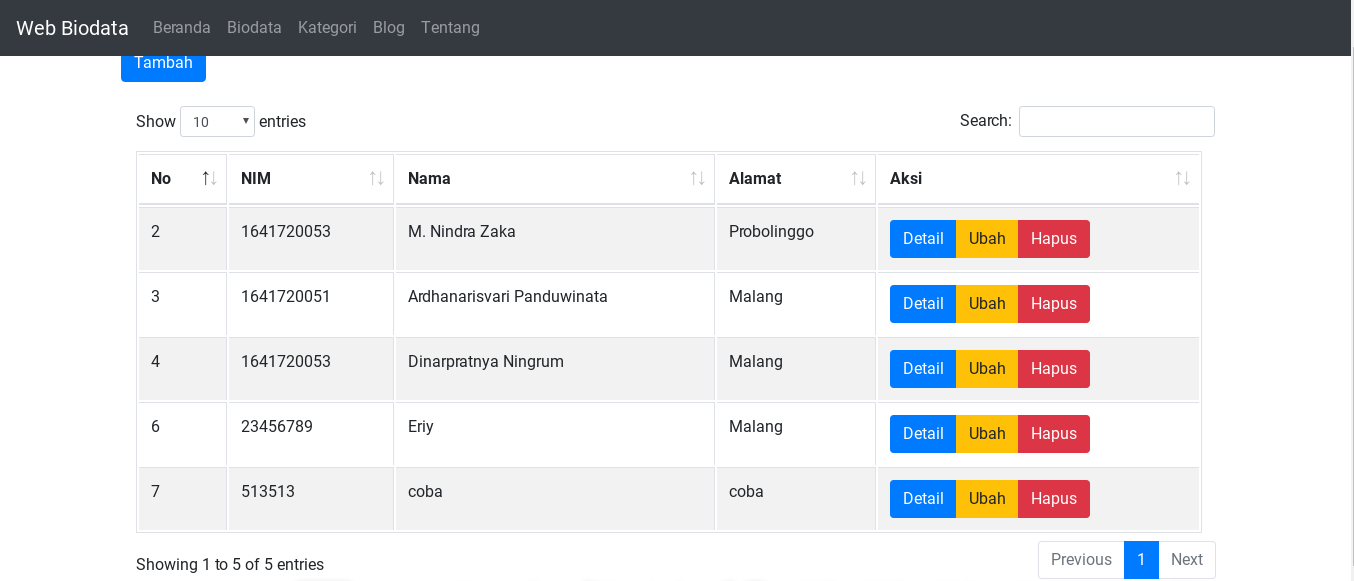
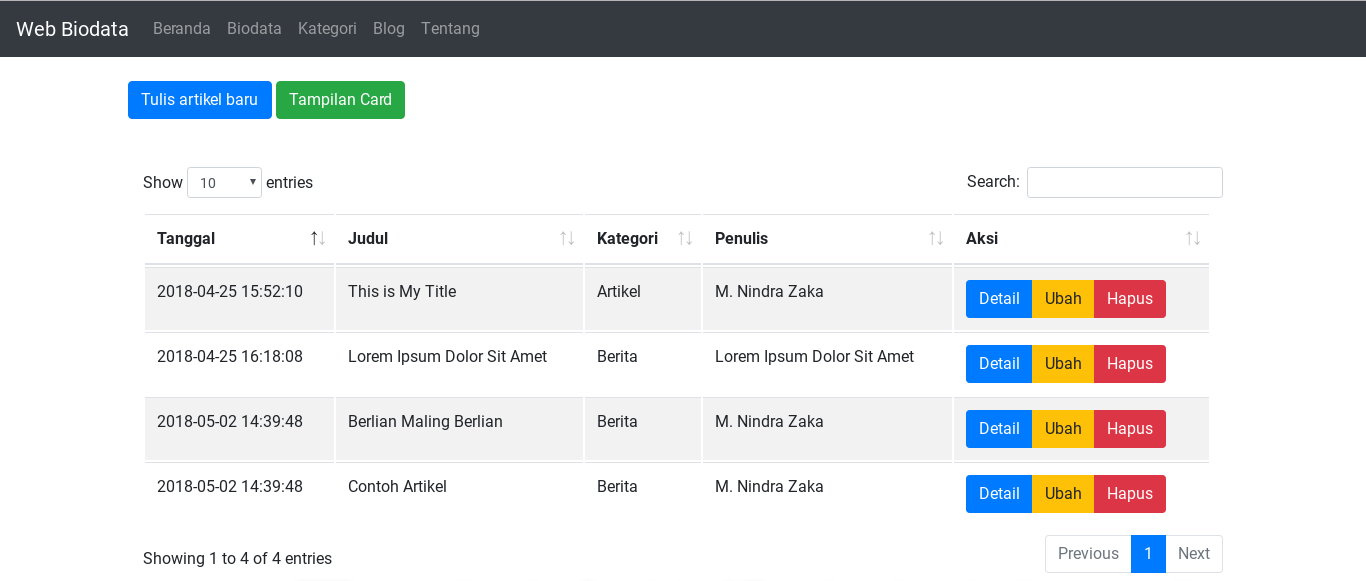
menerapkan datatables ke halaman blog

diff --git a/application/views/blog/indexTable.blade.php b/application/views/blog/indexTable.blade.php
@@ -1,0 +1,49 @@
+@extends('template')
+
+@section('content')
+    <div class="mb-5">
+        <a class="btn btn-primary" href="{{ base_url('blog/create') }}">Tulis artikel baru</a>
+        <a class="btn btn-success" href="{{ base_url('blog') }}">Tampilan Card</a>
+    </div>
+
+    <table class="table table-hover table-striped" id="myTable">
+        <thead class="thead-inverse|thead-default">
+        <tr>
+            <th>Tanggal</th>
+            <th>Judul</th>
+            <th>Kategori</th>
+            <th>Penulis</th>
+            <th>Aksi</th>
+        </tr>
+        </thead>
+    </table>
+@endsection
+
+@section('script')
+    <script>
+        $(document).ready(function() {
+            $('#myTable').dataTable( {
+                "columns": [
+                    { "data": "tanggal" },
+                    { "data": "judul" },
+                    { "data": "kategori.nama" },
+                    { "data": "penulis" },
+                    {
+                        "data": null,
+                        "render": function (data) {
+                            return `
+                            <div class="btn-group">
+                                <a type="a" href="{{ base_url('blog/show/') }}${data.id}" class="btn btn-primary">Detail</a>
+                                <a type="a" href="{{ base_url('blog/edit/') }}${data.id}" class="btn btn-warning">Ubah</a>
+                                <a type="a" href="{{ base_url('blog/delete/')}}${data.id}" class="btn btn-danger">Hapus</a>
+                            </div>`
+                        }
+                    }
+                ],
+                "ajax": {
+                    "url": "{{ base_url('blog/getAll')  }}"
+                }
+            } );
+        });
+    </script>
+@endsection

diff --git a/application/controllers/Blog.php b/application/controllers/Blog.php
@@ -9,6 +9,16 @@ class Blog extends MY_Controller {
         $this->view('blog.index', $data);
 	}
 
+	public function indexTable() {
+        $data['blog'] = BlogModel::all();
+        $this->view('blog.indexTable', $data);
+    }
+
+    public function getAll() {
+        $data['data'] = BlogModel::with('kategori')->get();
+        echo json_encode($data);
+    }
+
 	public function show($id) {
         $data['blog'] = BlogModel::find($id);
         $this->view('blog.show', $data);

diff --git a/application/views/blog/index.blade.php b/application/views/blog/index.blade.php
@@ -2,6 +2,7 @@
 
 @section('content')
     <a class="btn btn-primary" href="{{ base_url('blog/create') }}">Tulis artikel baru</a>
+    <a class="btn btn-success" href="{{ base_url('blog/indexTable') }}">Tampilan Table</a>
     <hr>
     @foreach($blog as $value)
         <div class="row mt-3 mb-3">
